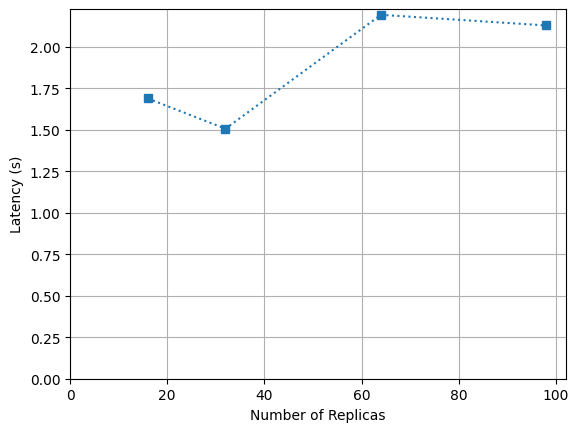
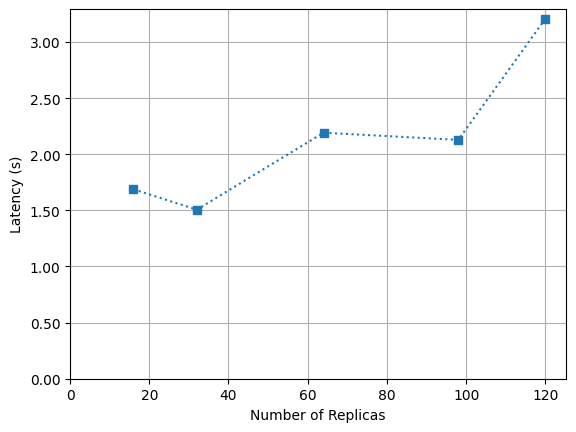
120 nodes plot

diff --git a/benchmark/fabfile.py b/benchmark/fabfile.py
@@ -152,7 +152,7 @@ def plot(ctx):
     ''' Plot performance using the logs generated by "fab remote" '''
     plot_params = {
         'faults': [0],
-        'nodes': [16, 32, 64, 98],
+        'nodes': [16, 32, 64, 120],
         'tx_size': 30,
         'max_latency': [2_000, 5_000]
     }

diff --git a/benchmark/data/poc-paper/plot-script.py b/benchmark/data/poc-paper/plot-script.py
@@ -237,7 +237,7 @@ class Plotter:
 
 
 if __name__ == '__main__':
-    max_latency = 5_000
+    max_latency = 10_000
     tx_size = 30
 
     # Parse the results.
